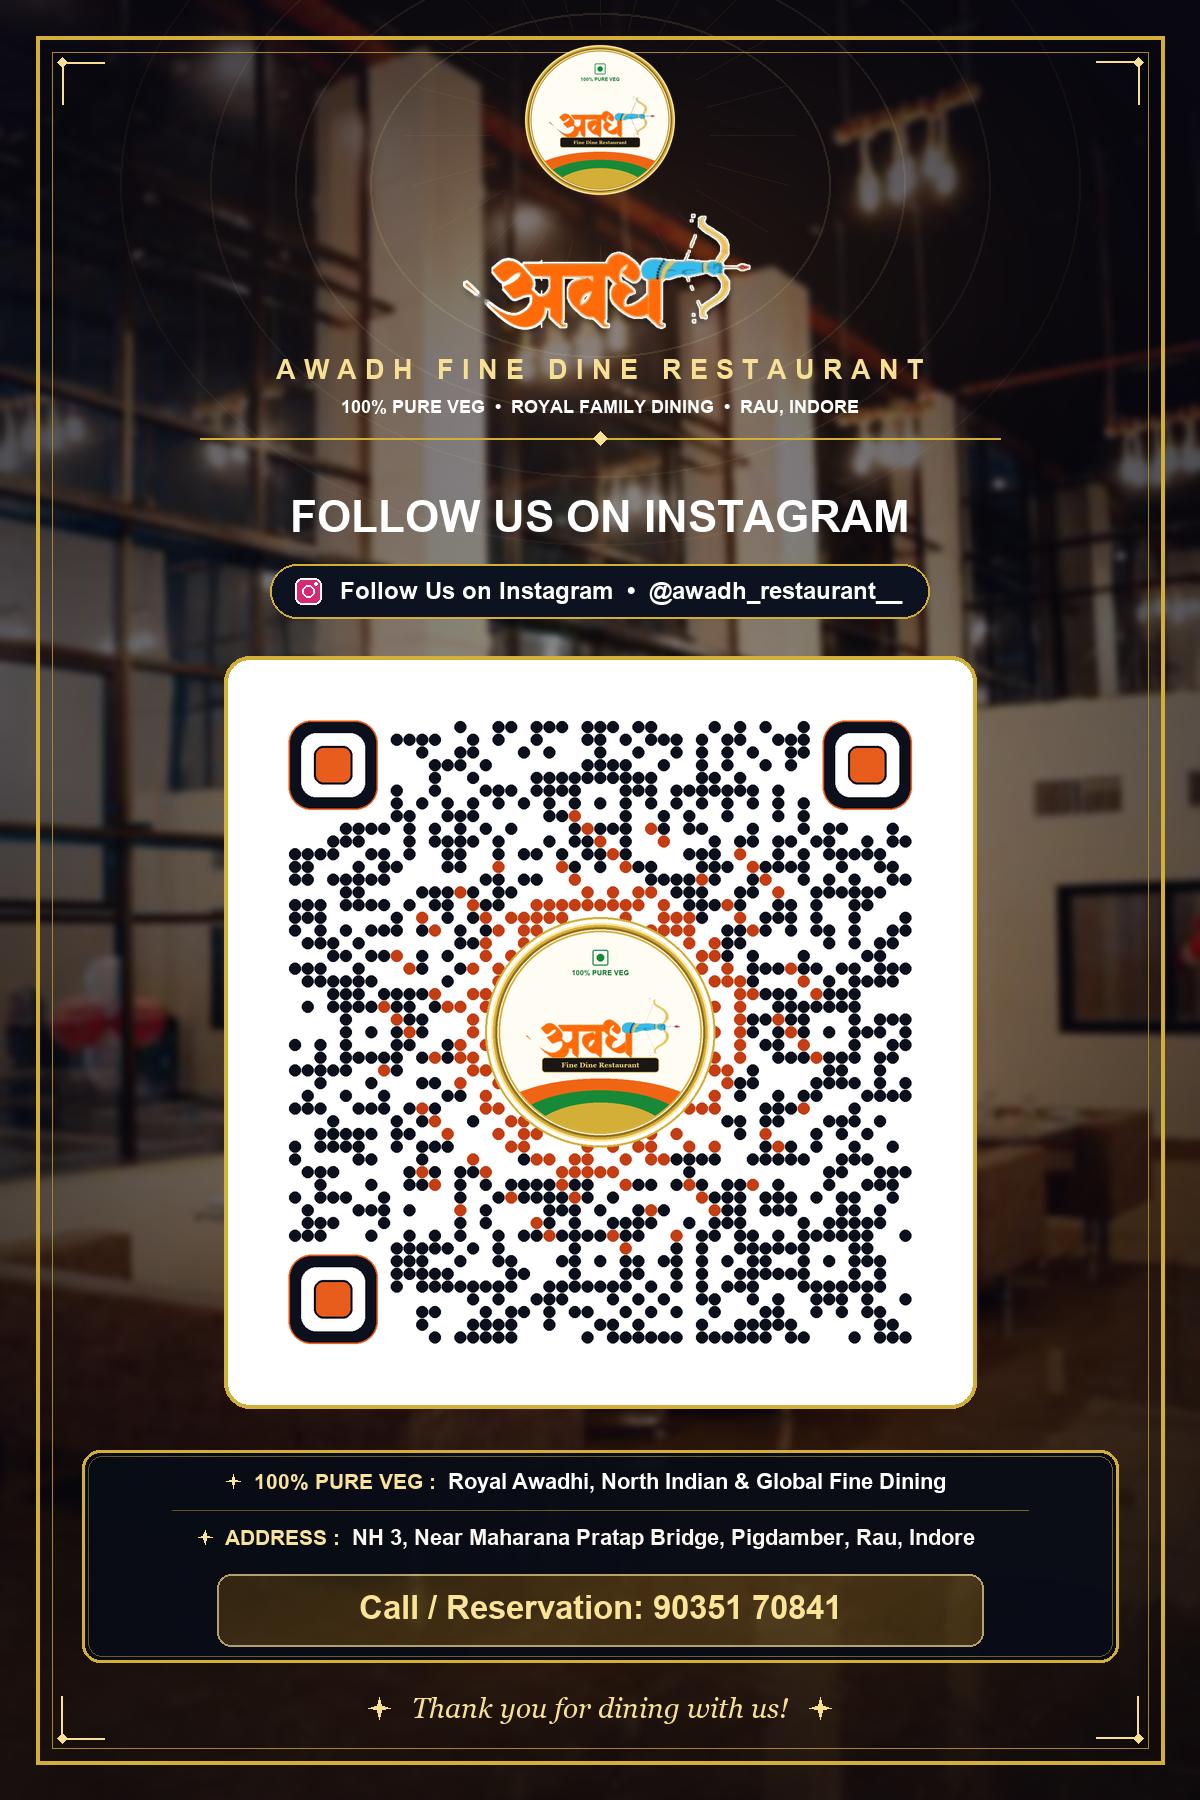
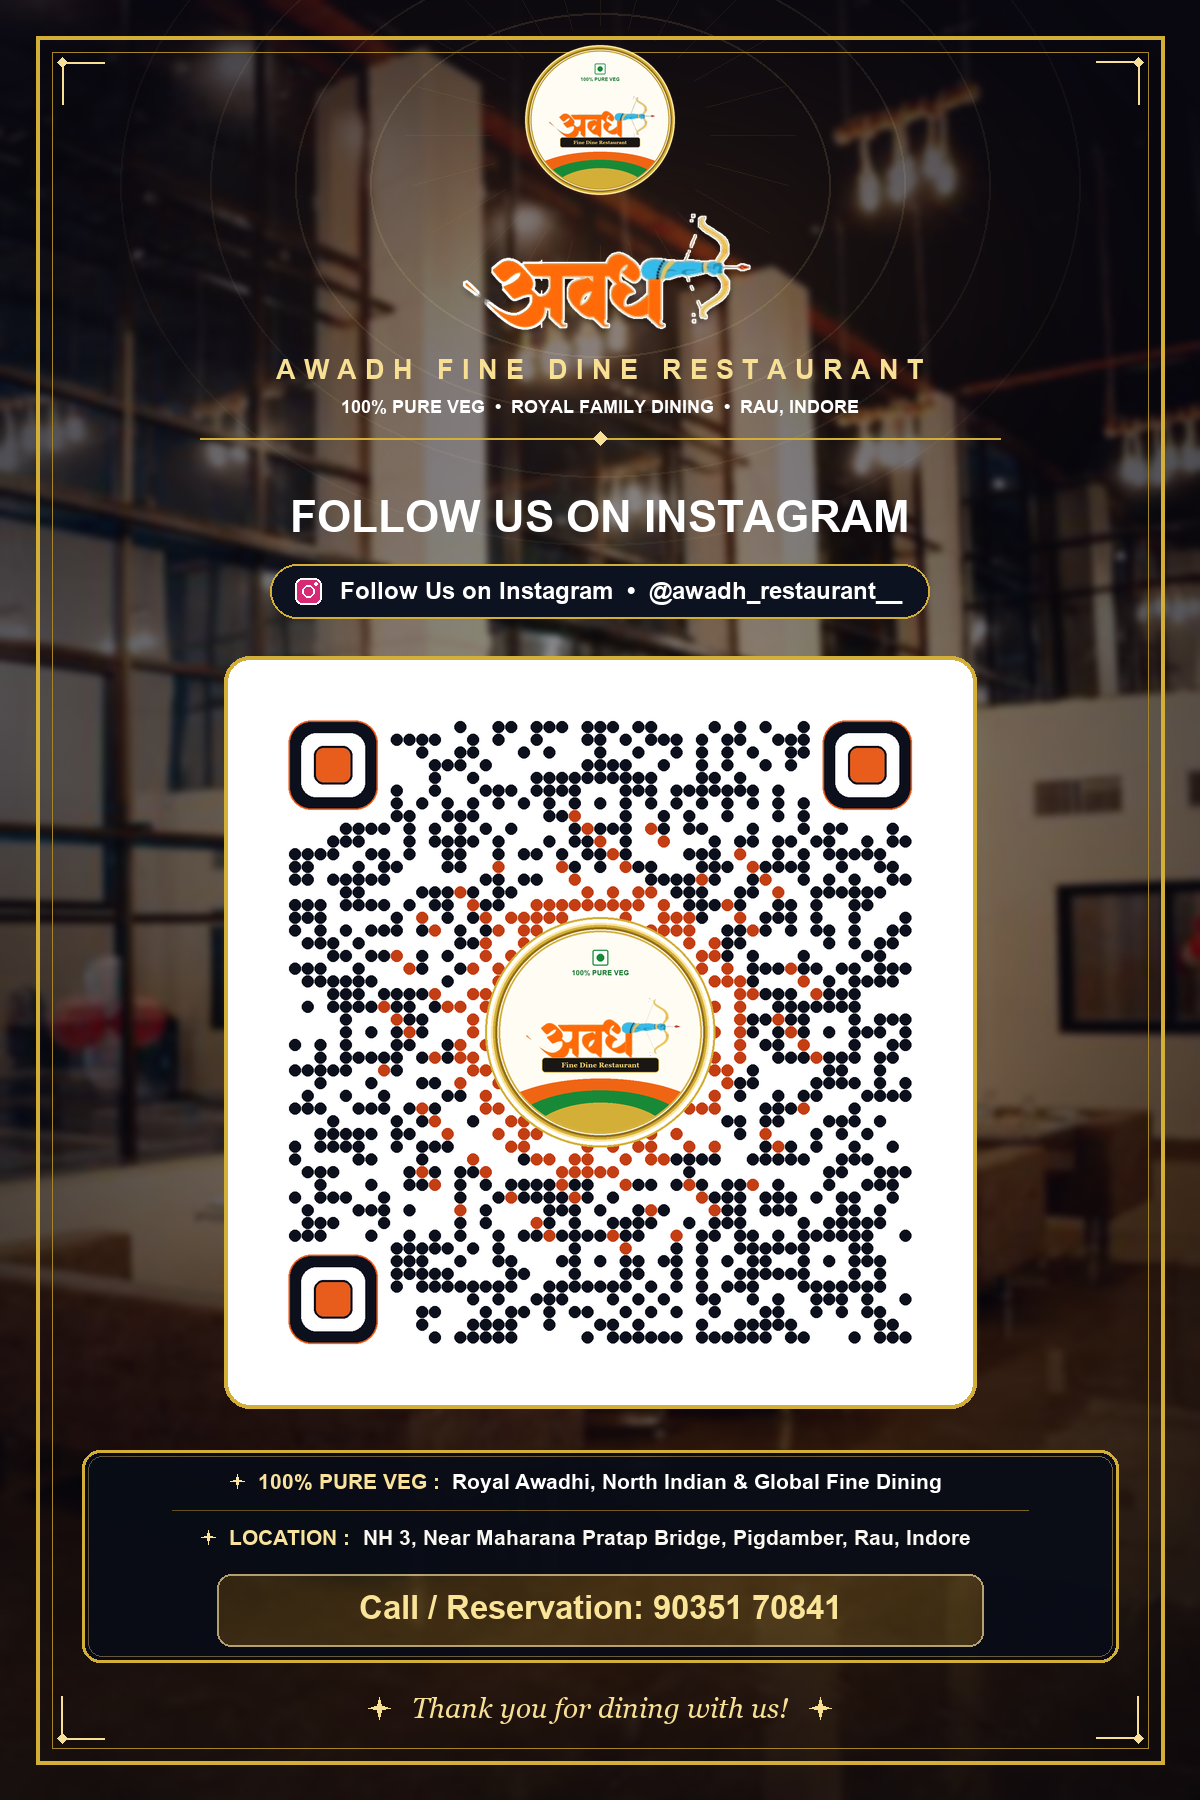
Enable full dynamic config.js sync on commit & push

Changed region(s): [[0.185, 0.8089, 0.8017, 0.8711]]

diff --git a/generate_qr.py b/generate_qr.py
@@ -63,6 +63,18 @@ def get_font(size, bold=False, italic=False, serif=False):
                 return ImageFont.truetype(font_path, size)
             except Exception:
                 pass
+
+    # Linux / Ubuntu fallback fonts (for GitHub Actions runner)
+    linux_candidates = [
+        "/usr/share/fonts/truetype/liberation/LiberationSans-Bold.ttf" if bold else "/usr/share/fonts/truetype/liberation/LiberationSans-Regular.ttf",
+        "/usr/share/fonts/truetype/dejavu/DejaVuSerif-Bold.ttf" if (serif and bold) else "/usr/share/fonts/truetype/dejavu/DejaVuSans-Bold.ttf" if bold else "/usr/share/fonts/truetype/dejavu/DejaVuSans.ttf",
+    ]
+    for lf in linux_candidates:
+        if os.path.exists(lf):
+            try:
+                return ImageFont.truetype(lf, size)
+            except Exception:
+                pass
     return ImageFont.load_default()
 
 
@@ -608,10 +620,12 @@ def generate_styled_qr(url, target_size=680):
     return img.resize((target_size, target_size), Image.Resampling.LANCZOS)
 
 
-def draw_brand_header(canvas, draw, w=1200):
+def draw_brand_header(canvas, draw, w=1200, config=None):
     """
     Draw the Compact & Balanced Awadh Fine Dine Restaurant Luxury Header.
     """
+    if config is None:
+        config = {}
     logo_path = "logo_with_gold_rim.png" if os.path.exists("logo_with_gold_rim.png") else "logo.png"
     if os.path.exists(logo_path):
         logo = Image.open(logo_path).convert("RGBA")
@@ -633,12 +647,13 @@ def draw_brand_header(canvas, draw, w=1200):
         canvas.paste(title_img, (hx, hy), mask=title_img)
 
     font_midway = get_font(27, bold=True)
-    midway_text = "A W A D H   F I N E   D I N E   R E S T A U R A N T"
+    raw_sub = config.get("subname", "AWADH FINE DINE RESTAURANT").strip().upper()
+    midway_text = "   ".join([" ".join(list(word)) for word in raw_sub.split()])
     bbox = draw.textbbox((0, 0), midway_text, font=font_midway)
     draw.text(((w - (bbox[2] - bbox[0])) / 2, 354), midway_text, fill=(247, 223, 148), font=font_midway)
 
     font_sub = get_font(18, bold=True)
-    sub_text = "100% PURE VEG  •  ROYAL FAMILY DINING  •  RAU, INDORE"
+    sub_text = config.get("tagline", "100% PURE VEG  •  ROYAL FAMILY DINING  •  RAU, INDORE")
     bbox = draw.textbbox((0, 0), sub_text, font=font_sub)
     draw.text(((w - (bbox[2] - bbox[0])) / 2, 396), sub_text, fill=(255, 255, 255), font=font_sub)
 
@@ -652,7 +667,7 @@ def draw_footer(canvas, draw, config, w=1200):
     Draw the Ultra-Luxury Address & Phone Box + Gold Sparkle Thank-You Footer.
     """
     font_label = get_font(21, bold=True)
-    font_addr = get_font(22, bold=True)
+    font_addr = get_font(21, bold=True)
     font_phone = get_font(33, bold=True)
     font_thanks = get_font(28, bold=False, italic=True, serif=True)
 
@@ -689,7 +704,9 @@ def draw_footer(canvas, draw, config, w=1200):
     canvas.paste(canvas_rgba.convert("RGB"))
 
     lbl1 = "100% PURE VEG :  "
-    txt1 = "Royal Awadhi, North Indian & Global Fine Dining"
+    txt1 = config.get("highlight", "Royal Awadhi, North Indian & Global Fine Dining")
+    if len(txt1) > 54:
+        txt1 = "Royal Awadhi, North Indian & Global Fine Dining"
     b_lbl1 = draw.textbbox((0, 0), lbl1, font=font_label)
     b_txt1 = draw.textbbox((0, 0), txt1, font=font_addr)
     w1_lbl = b_lbl1[2] - b_lbl1[0]
@@ -701,8 +718,10 @@ def draw_footer(canvas, draw, config, w=1200):
     draw.text((x1_start, y1_row), lbl1, fill=(249, 226, 156), font=font_label)
     draw.text((x1_start + w1_lbl, y1_row), txt1, fill=(255, 255, 255), font=font_addr)
 
-    lbl2 = "ADDRESS :  "
-    txt2 = "NH 3, Near Maharana Pratap Bridge, Pigdamber, Rau, Indore"
+    lbl2 = f"{config.get('addressPrimaryLabel', 'ADDRESS')} :  "
+    txt2 = config.get("addressPrimary", "NH 3, Near Maharana Pratap Bridge, Pigdamber, Rau, Indore")
+    if len(txt2) > 64:
+        txt2 = txt2.replace("Agra-Mumbai Highway, ", "")
     b_lbl2 = draw.textbbox((0, 0), lbl2, font=font_label)
     b_txt2 = draw.textbbox((0, 0), txt2, font=font_addr)
     w2_lbl = b_lbl2[2] - b_lbl2[0]
@@ -714,7 +733,7 @@ def draw_footer(canvas, draw, config, w=1200):
     draw.text((x2_start, y2_row), lbl2, fill=(249, 226, 156), font=font_label)
     draw.text((x2_start + w2_lbl, y2_row), txt2, fill=(250, 247, 240), font=font_addr)
 
-    phone_disp = config.get("phoneDisplay", "90351 70841")
+    phone_disp = config.get("phoneDisplay") or config.get("phone", "90351 70841")
     phone_text = f"Call / Reservation: {phone_disp}"
     bbox = draw.textbbox((0, 0), phone_text, font=font_phone)
     draw.text(((w - (bbox[2] - bbox[0])) / 2, info_y1 + 139), phone_text, fill=(250, 228, 152), font=font_phone)
